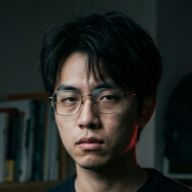
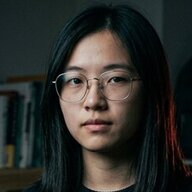
fix: align group codes and preserve pre-immersion baseline

diff --git a/api/src/scenario_repo.php b/api/src/scenario_repo.php
@@ -175,8 +175,8 @@ function ck_grading_data(int $levelNo): array
  * 取得或建立這位受試者的實驗回合。
  *
  * 組別編碼（students.`group`）：
- *   '1' → 實驗組（AI 角色共享問話紀錄；每關結束即時回饋）
- *   '2' → 控制組（AI 角色彼此獨立）
+ *   '1' → 控制組（AI 角色彼此獨立）
+ *   '2' → 實驗組（AI 角色共享問話紀錄；每關結束即時回饋）
  *
  * 用數字而非 'experiment'／'control'，是為了不讓受試者從任何地方
  * （網址、localStorage、DevTools）看出自己被分到哪一組。
@@ -204,12 +204,12 @@ function ck_run(string $stuId): array
         $row = $student->fetch();
         if (!$row) throw new RuntimeException('Student not found');
         $group = trim((string)$row['group']);
-        if (in_array($group, ['2','control','控制組'], true)) $cond = 'control';
-        elseif (in_array($group, ['1','experiment','實驗組'], true)) $cond = 'experiment';
+        if (in_array($group, ['1','control','控制組'], true)) $cond = 'control';
+        elseif (in_array($group, ['2','experiment','實驗組'], true)) $cond = 'experiment';
         elseif ($group === '') {
             if (!in_array($next,[1,2],true)) throw new RuntimeException('Allocation not initialized');
             $group = (string)$next;
-            $cond = $next === 2 ? 'control' : 'experiment';
+            $cond = $next === 1 ? 'control' : 'experiment';
             $pdo->prepare('UPDATE students SET `group`=? WHERE stu_id=?')->execute([$group,$stuId]);
             $pdo->prepare('UPDATE ck_allocation SET next_group=? WHERE id=1')->execute([$next===2?1:2]);
         } else throw new RuntimeException('Unknown existing group; researcher must confirm');

diff --git a/api/public/login.php b/api/public/login.php
@@ -23,15 +23,15 @@ if ($_SERVER['REQUEST_METHOD'] === 'POST') {
                 $student['current_scenario'] = $progress->fetchColumn() ?: 1;
                 
                 session_regenerate_id(true);
-                ck_run($student['stu_id']);
+                $run = ck_run($student['stu_id']);
                 $_SESSION['stu_id'] = $student['stu_id'];
                 $_SESSION['stu_name'] = $student['name'];
 
                 // 從進度表撈出來的 current_scenario 數字。如果沒有紀錄(全新學生)，就預設給 1
                 $current_scenario = isset($student['current_scenario']) ? intval($student['current_scenario']) : 1;
 
-                // 獲取實驗組別欄位
-                $group = $student['group'] ?? '';
+                // 回傳本次回合的實際組別；首次分派前讀出的 student 可能仍為 NULL。
+                $group = $run['cond'] === 'control' ? '1' : '2';
 
                 echo json_encode([
                     'success' => true,

diff --git a/HANDOFF.md b/HANDOFF.md
@@ -1,3 +1,47 @@
+# 本輪狀態：沉浸感改版前存檔（2026-09-28）
+
+使用者核可先做章節名稱露出、訊問角色資訊、分類與推理版面整理，並明確要求「改之前先把這版 git 保存一下」。此存檔仍為改版前程式，包含已驗收的 1 控制／2 實驗編號修正、保留既有條件的 migration、最新版角色 4／5 圖片與交接。先保存並整合既有 origin/fix/xiaomai-ui-followup 的 18b6e63 文件／素材，再推送同一分支；不合併 main，不執行正式部署。大型影片、本機設定、學生資料與私密 migration 對照均不提交。
+
+改版前重跑既有 13 項局部測試與本機真實 HTTP 分組／回饋／越權檢查；全部通過後才提交。全套測試仍受不可建立／刪除其他資料庫約束，本次依使用者要求保存現況，不將 checkpoint 說成全套正式施測验收。改版將沿用原章節／證詞文字、不新增線索、提示、問答、計時或組間差異；以現有淺灰紙白與人物圖片實作，保留 80% 桌機與手機閱讀。
+
+---
+
+# 本輪狀態：1 控制組／2 實驗組已修正，歷史編號已對齊（2026-09-28）
+
+使用者要求「改成1是控制組 2是實驗組」，並明確選擇「保留既有實驗條件，只調整編號」。本輪修正 `api/src/scenario_repo.php` 的預設數字對應與交替分派解讀；`api/public/login.php` 改由本回合實際 cond 回傳新數字，修復首次自動分派後仍回空白的問題。全新資料庫初始化與 2026_09_review 的 allocation 預設從 1 開始；既有 next_group 不重設，保留原數字接續交替。schema 的其他設定、計時、實驗差異不變。
+
+新增 `api/migrations/2026_09_group_codes.sql`，以凍結的 ck_runs.cond 對齊 students.group：control→1、experiment→2，包括原 NULL 帳號；沒有回合的帳號不改，重跑無更新。已經使用者核可後才執行。`README.md`、`PRODUCT.md`、`docs/open-questions.md` 記錄新規則及已結案決策；測試的控制／實驗 fixture 數字同步調整，group.test 加上顯式編號與歷史標籤轉換驗證。
+
+產品理解：學生表數字是「名牌」，回合 cond 是實際接受的實驗方式。主方案只換名牌、保持歷史條件與作答；替代方案是保持原編號卻切換條件，會造成中途換組，使用者未採用。新登入先讀固定回合，只有沒有回合才按照指定組別／分派序號建立；伺服器決定對話共享與回饋權限。沒有新外部相依或費用，沒有重設學生進度。
+
+紅綠證據：`.screenshots/group-mapping/check.php` 先以精確合成帳號在指定 idealightsdg_cake 呼叫真實 ck_run，觀察 1 預期 control 卻取得 experiment（exit 1）；修正後 1/control、2/experiment、回饋旗標與重新進入穩定均通過。另一個實際 HTTP/PHP/MySQL `.screenshots/group-mapping/http-check.mjs` 先觀察首次登入 group 空字串與已分派的 1 不同（exit 1），修正 login 回傳後通過。
+
+歷史轉換：`.screenshots/group-mapping/migrate.php preview` 在交易內執行相同 SQL、驗證後回滾；apply 前以建立新檔的方式保存 `.screenshots/group-mapping/before-relabel.json`（含學生識別碼，僅本機且忽略追蹤，切勿提交）。apply 轉換 8 筆，未對齊 0 筆，再執行同 SQL 更新 0 筆，正式提交交易。之後再次核對各資料表排序後的內容 SHA256 與轉換前相同：回合、進度、設定、分類、理由、訊問、草稿、回饋、計時、問卷、影片進度、事件均未改；next_group 仍為原數值。`GROUP BY students.group,ck_runs.cond` 結果為控制組 1 共 2 帳號、實驗組 2 共 6 帳號。量測先由舊資料不一致與已知合成帳號校準，未以空輸出當作成功。
+
+同步前以 git blob 驗證實際站 scenario_repo.php／login.php 與 HEAD 原版相同，備份 `.screenshots/group-mapping/*before`；同步至 `C:/Users/User/AppData/Local/Temp/idealight-preview-e2102de6/site`，SHA256 相同，再執行核可的既有庫編號轉換。實際 `http://127.0.0.1:18079` 重跑 HTTP 驗證通過。
+
+施測者／學生 QA 與本輪權限相關安全模擬（僅本機合成帳號）：新帳號自動交替且首次登入回傳一致；1 無跨角色共享、state 不含分數、作答後不洩漏詳細回饋；2 共享同關合成訊問且取得詳細回饋。回饋預置合成快取，不呼叫付費 AI。兩組未作答回饋 409、未登入 state 401、客戶端偽造 group/cond/stuId 不能換組或取得他人權限；未知既有組別登入失敗且不建立回合。重登保持單一回合。四張既有照片與其他修改均保留。合成帳號精確匹配 id+測試名稱清除，外鍵事先核對，驗證資料消失且帳號無法再登入。私密對照檔、.env、api/src 的 HTTP 存取皆 403。
+
+回歸：既有 PLAYWRIGHT_MODULE／TEST_PHP_BINARY 下 `node --test --test-concurrency=1 tests/config.test.mjs tests/rank.test.mjs tests/media.test.mjs tests/test-config.test.mjs tests/ui-review.test.mjs` → 13 通過、0 失敗、0 跳過、exit 0。兩份 PHP 語法、所有本輪變更 mjs 語法及 git diff --check 通過。新增與調整的資料庫全套測試仍因會建刪其他庫而未執行，本輪以限定既有庫、合成帳號的真實邊界驗證補足局部證據；不能宣稱全套通過。
+
+工作區仍 fix/xiaomai-ui-followup@ae03751，origin 已有 18b6e63 的角色圖與文件更新；未覆蓋該遠端提交，未合併 main／提交／push。本輪更新已套用本機服務與指定資料庫；沒有正式部署流程。下一步是使用者按新編號管理學生；若另行部署其他環境，需先備份學生組別對照，再執行本輪 migration，不能只更新 PHP 而忽略舊標籤。技能：product-owner-teaching、systematic-debugging、test-driven-development、verification-before-completion。
+
+---
+
+# 本輪狀態：抓取新版角色 4／5 照片並同步本機站（2026-09-28）
+
+使用者確認「幫我把照片抓下來」。從已 fetch 的遠端 `fix/xiaomai-ui-followup@18b6e637edbce1f91c3adf4edba32223375cb027` 提取 `assets/img/game/char_4.jpg`、`char_5.jpg`、`avatar_4.jpg`、`avatar_5.jpg`，更新工作區與既有 `C:/Users/User/AppData/Local/Temp/idealight-preview-e2102de6/site`。大圖與小頭像一起換，避免介紹與訊問顯示不同版本。只取四張圖片，沒有合併同次提交的其他文件／素材。本機分支 HEAD 仍 ae03751，遠端已是 18b6e63，四張圖在工作區表現為修改；不要把這些已在遠端的圖片重複提交或用舊本機狀態覆蓋遠端。本輪 HANDOFF 為本機新增交接。
+
+寫入前逐檔確認工作區與站點均等於原 HEAD，備份至 `.screenshots/character-review/before/`。來源圖片為羅四影攜相機、許五澄戴眼鏡持筆電；直接取 Git 原始二進位，不重新製圖或壓縮。小頭像 192×192、大圖 597×800。角色資料、分組、對話、答案與第一關影片均不變，沒有資料庫／付費操作。採同路徑替換讓既有頁面直接使用；替代的改檔名需修改更多引用，本輪不需要。瀏覽器如保留舊快取可 Ctrl+F5。
+
+驗證 `.screenshots/character-review/check.mjs`：第一輪工作區、第二輪實際站 `http://127.0.0.1:18079/control/game.html`，各用桌機 1280×800／手機 375×812。四張 HTTP 圖片均 200，SHA256 與遠端提取圖片一致；校準與寫入前比對已證明舊版和新版不同。六張角色圖片正常解碼、無水平溢出、角色 4／5 訊問選擇正常，無 pageerror，兩輪 exit 0。瀏覽器使用合成 API，不碰真實學生與 AI。最終截圖 `.screenshots/character-review/round2-desktop.png`、`round2-mobile.png`；兩輪各兩張均讀回。學生與施測者簡短 QA 確認角色照片／姓名对应且兩種尺寸可辨識。
+
+八項自評兩輪通過：層次（標題／人物／操作沿用）、留白（保留已核可 80%）、字體（既有字系）、配色（新圖同系列暗色人像）、對齊（卡片框不變）、響應式（桌機完整六人，手機可捲動）、狀態（選人可用／圖片載入成功）、動效（沿用既有回饋，無新增動畫）。Impeccable 自動引擎仍不可用，人工檢視，未宣稱自動掃描通過。純圖片替換沒有新增永久程式測試；全套資料庫測試仍受既有約束，未執行，未合併 main／推送／正式部署。照片來源已存在遠端，本輪不需要再上傳。下一步為使用者重新整理檢視；待續事項仍是分組數字對應修正。
+
+已套用 product-owner-teaching、impeccable、playwright-cli、verification-before-completion；沿用前端與 QA 詳規。本輪保留全部既有未追蹤影片與 .claude 本機設定。
+
+---
+
 # 本輪狀態：依使用者要求保存目前程式碼並推送既有分支（2026-09-28）
 
 使用者要求「先幫我把這個版本的 code 推上 git」。本輪範圍是現況存檔至 `origin/fix/xiaomai-ui-followup`，來源 HEAD `8807e0f`；不是宣稱正式施測驗收完成，不合併 main、不部署。本次包含標頭修正、新版說明圖與提示詞、移除錯誤開場影片的前後端與測試、80% 桌機排版及產品／交接文件。沒有新功能或沉浸感改版。

diff --git a/PRODUCT.md b/PRODUCT.md
@@ -9,6 +9,7 @@ web
 ## Operating Context
 PHP / MySQL + 無建置流程的 HTML、CSS、JavaScript。沿用現有元件與人物圖，正式環境使用 Apache/XAMPP。問卷使用既有 SurveyCake 整合。
 ## Capabilities and Constraints
+2026-09-28 組別編號更正：1＝控制組、2＝實驗組；新回合依此解讀並交替分派。使用者已核可保留既有回合 ck_runs.cond 與全部作答，只將歷史學生編號對齊實際條件；本機既有帳號已轉換。全新安裝從 1 開始，既有環境保留 next_group 數值接續交替。
 2026-09-24 使用者與小麥對話已核可；2026-09-28 使用者更正沒有角色介紹影片：開場直接顯示六人圖文介紹，再進調查須知；各關劇情影片完成才可前進，不要求額外開場影片。合併分類與理由、共用原先兩階段合計時間；未送出訊問草稿自動保存及 15 秒行內提醒；首次登入按資料庫分派序號控制／實驗交替，重登固定；保留既有已分組及已開始紀錄。
 實驗組共享同關訊問紀錄、逐關教學回饋及累積分類分數；控制組後測完成後才顯示分數與解析。六關分類總分 36，推理品質評語獨立保留，不能混稱總體批判思考分數。
 等級：0–9 見習偵探、10–18 初階偵探、19–27 中階偵探、28–35 高階偵探、36 金階偵探。不加嘴巴動畫。

diff --git a/docs/open-questions.md b/docs/open-questions.md
@@ -1,0 +1,12 @@
+# 待決事項
+
+## 2026-09-28：舊組別編號轉換（已決定並套用本機）
+
+已核可新對應：1＝控制組、2＝實驗組。程式與新回合依新規則修改。
+
+既有資料不只有 students.group，ck_runs.cond 另保存回合的實際實驗條件；已有帳號進入作答階段。已向使用者詢問：
+
+- 推薦：保留既有 ck_runs.cond 與全部作答，只把學生表數字改成 control→1／experiment→2，避免中途換組。
+- 替代：保留學生原編號，重新解讀並切換既有回合條件；會造成同一回合可能混合兩種實驗條件，NULL 帳號也需要明確處理。
+
+使用者已選「保留既有實驗條件，只調整編號」。已用 `api/migrations/2026_09_group_codes.sql` 依固定的回合條件對齊學生編號；本機 8 筆轉換，沒有重設進度。next_group 保留原數字，新規則接續以 1 控制／2 實驗交替。重跑轉換不再更新任何紀錄；轉換前對照與檢查證據僅保存在忽略追蹤的本機 `.screenshots/group-mapping/`，不提交學生資料。此事項無待決問題。

diff --git a/README.md b/README.md
@@ -103,7 +103,7 @@ if not exist .env copy .env.example .env
 
 ## 實驗設定備忘
 
-- **組別**：`students.group` 決定實驗組（`1`）／控制組（`2`），首次登入尚未分組者由系統交替分派（控制、實驗），既有組別保留；
+- **組別**：`students.group` 為控制組（`1`）／實驗組（`2`）；全新安裝從控制組開始交替分派，既有環境接續分派序號。已建立回合以 `ck_runs.cond` 保存的條件為準，不因登入而重新分组；舊編號資料需另行核對轉換。
   開始遊戲時凍結到 `ck_runs.cond`，中途改組別不影響已開始的受試者。
   前端只拿得到 `hasAiFeedback` 布林值，受試者無從得知自己的組別。
 - **主要操弄（訊問）**：六位角色都可以問、自由打字、不限次數，只限時間。
